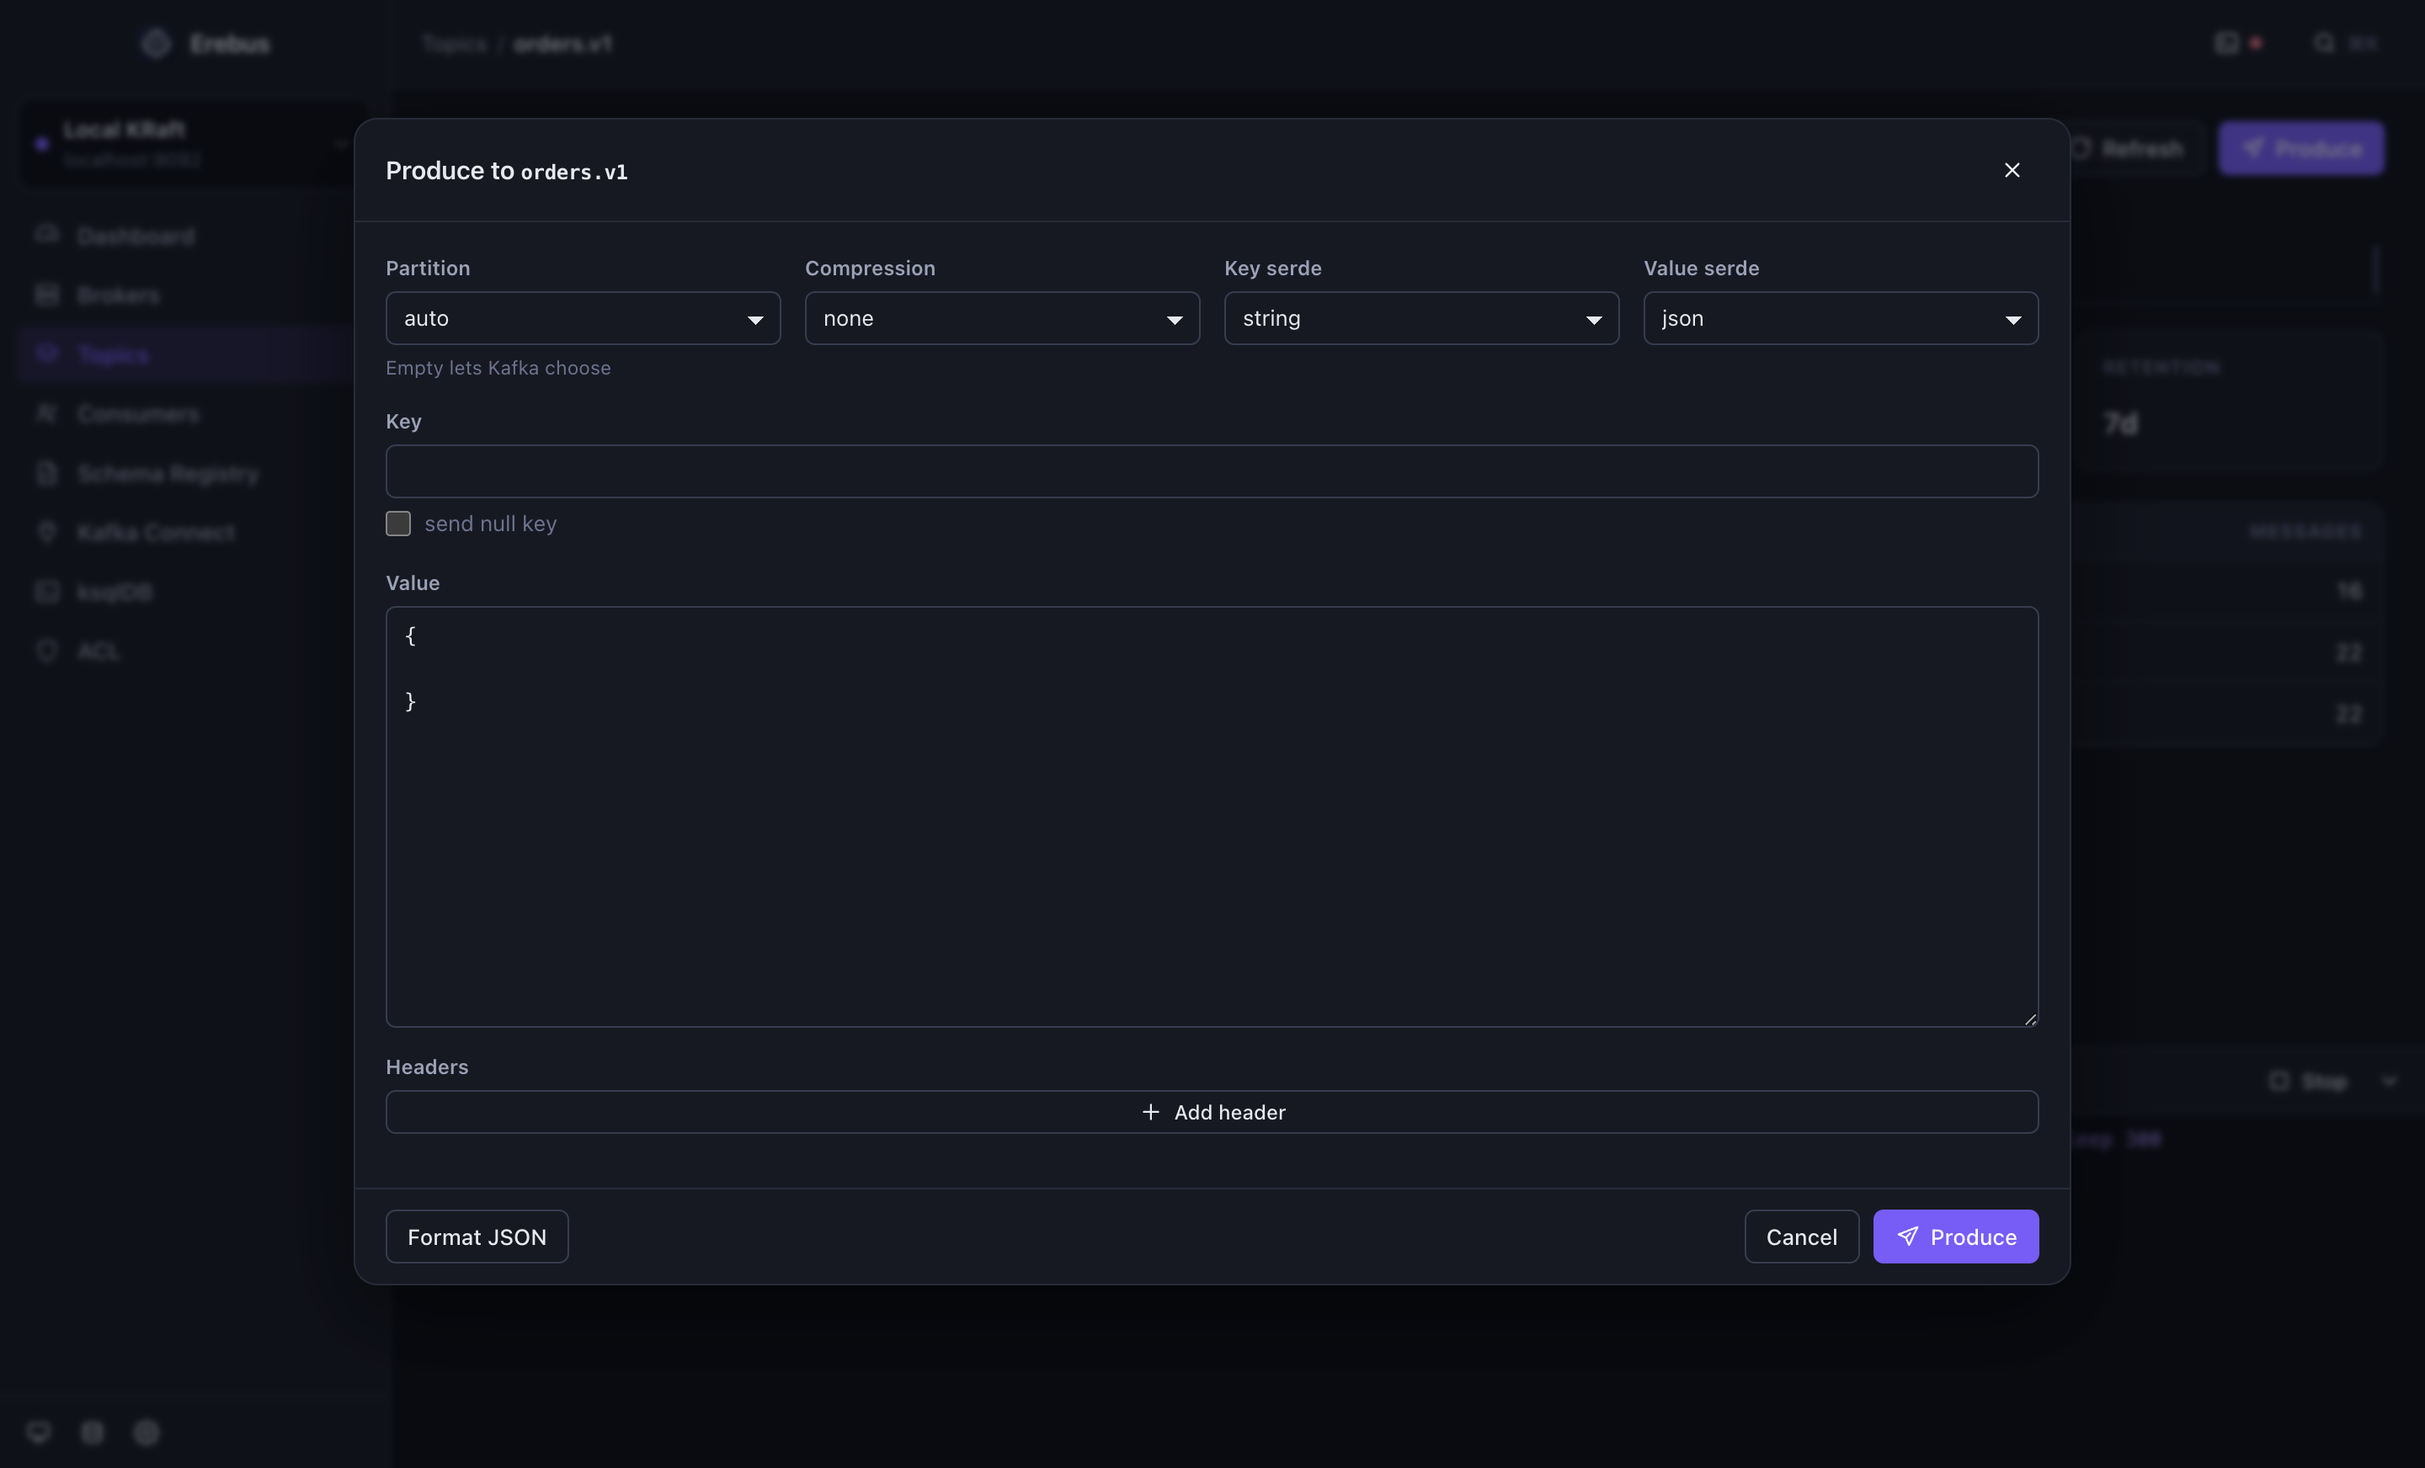
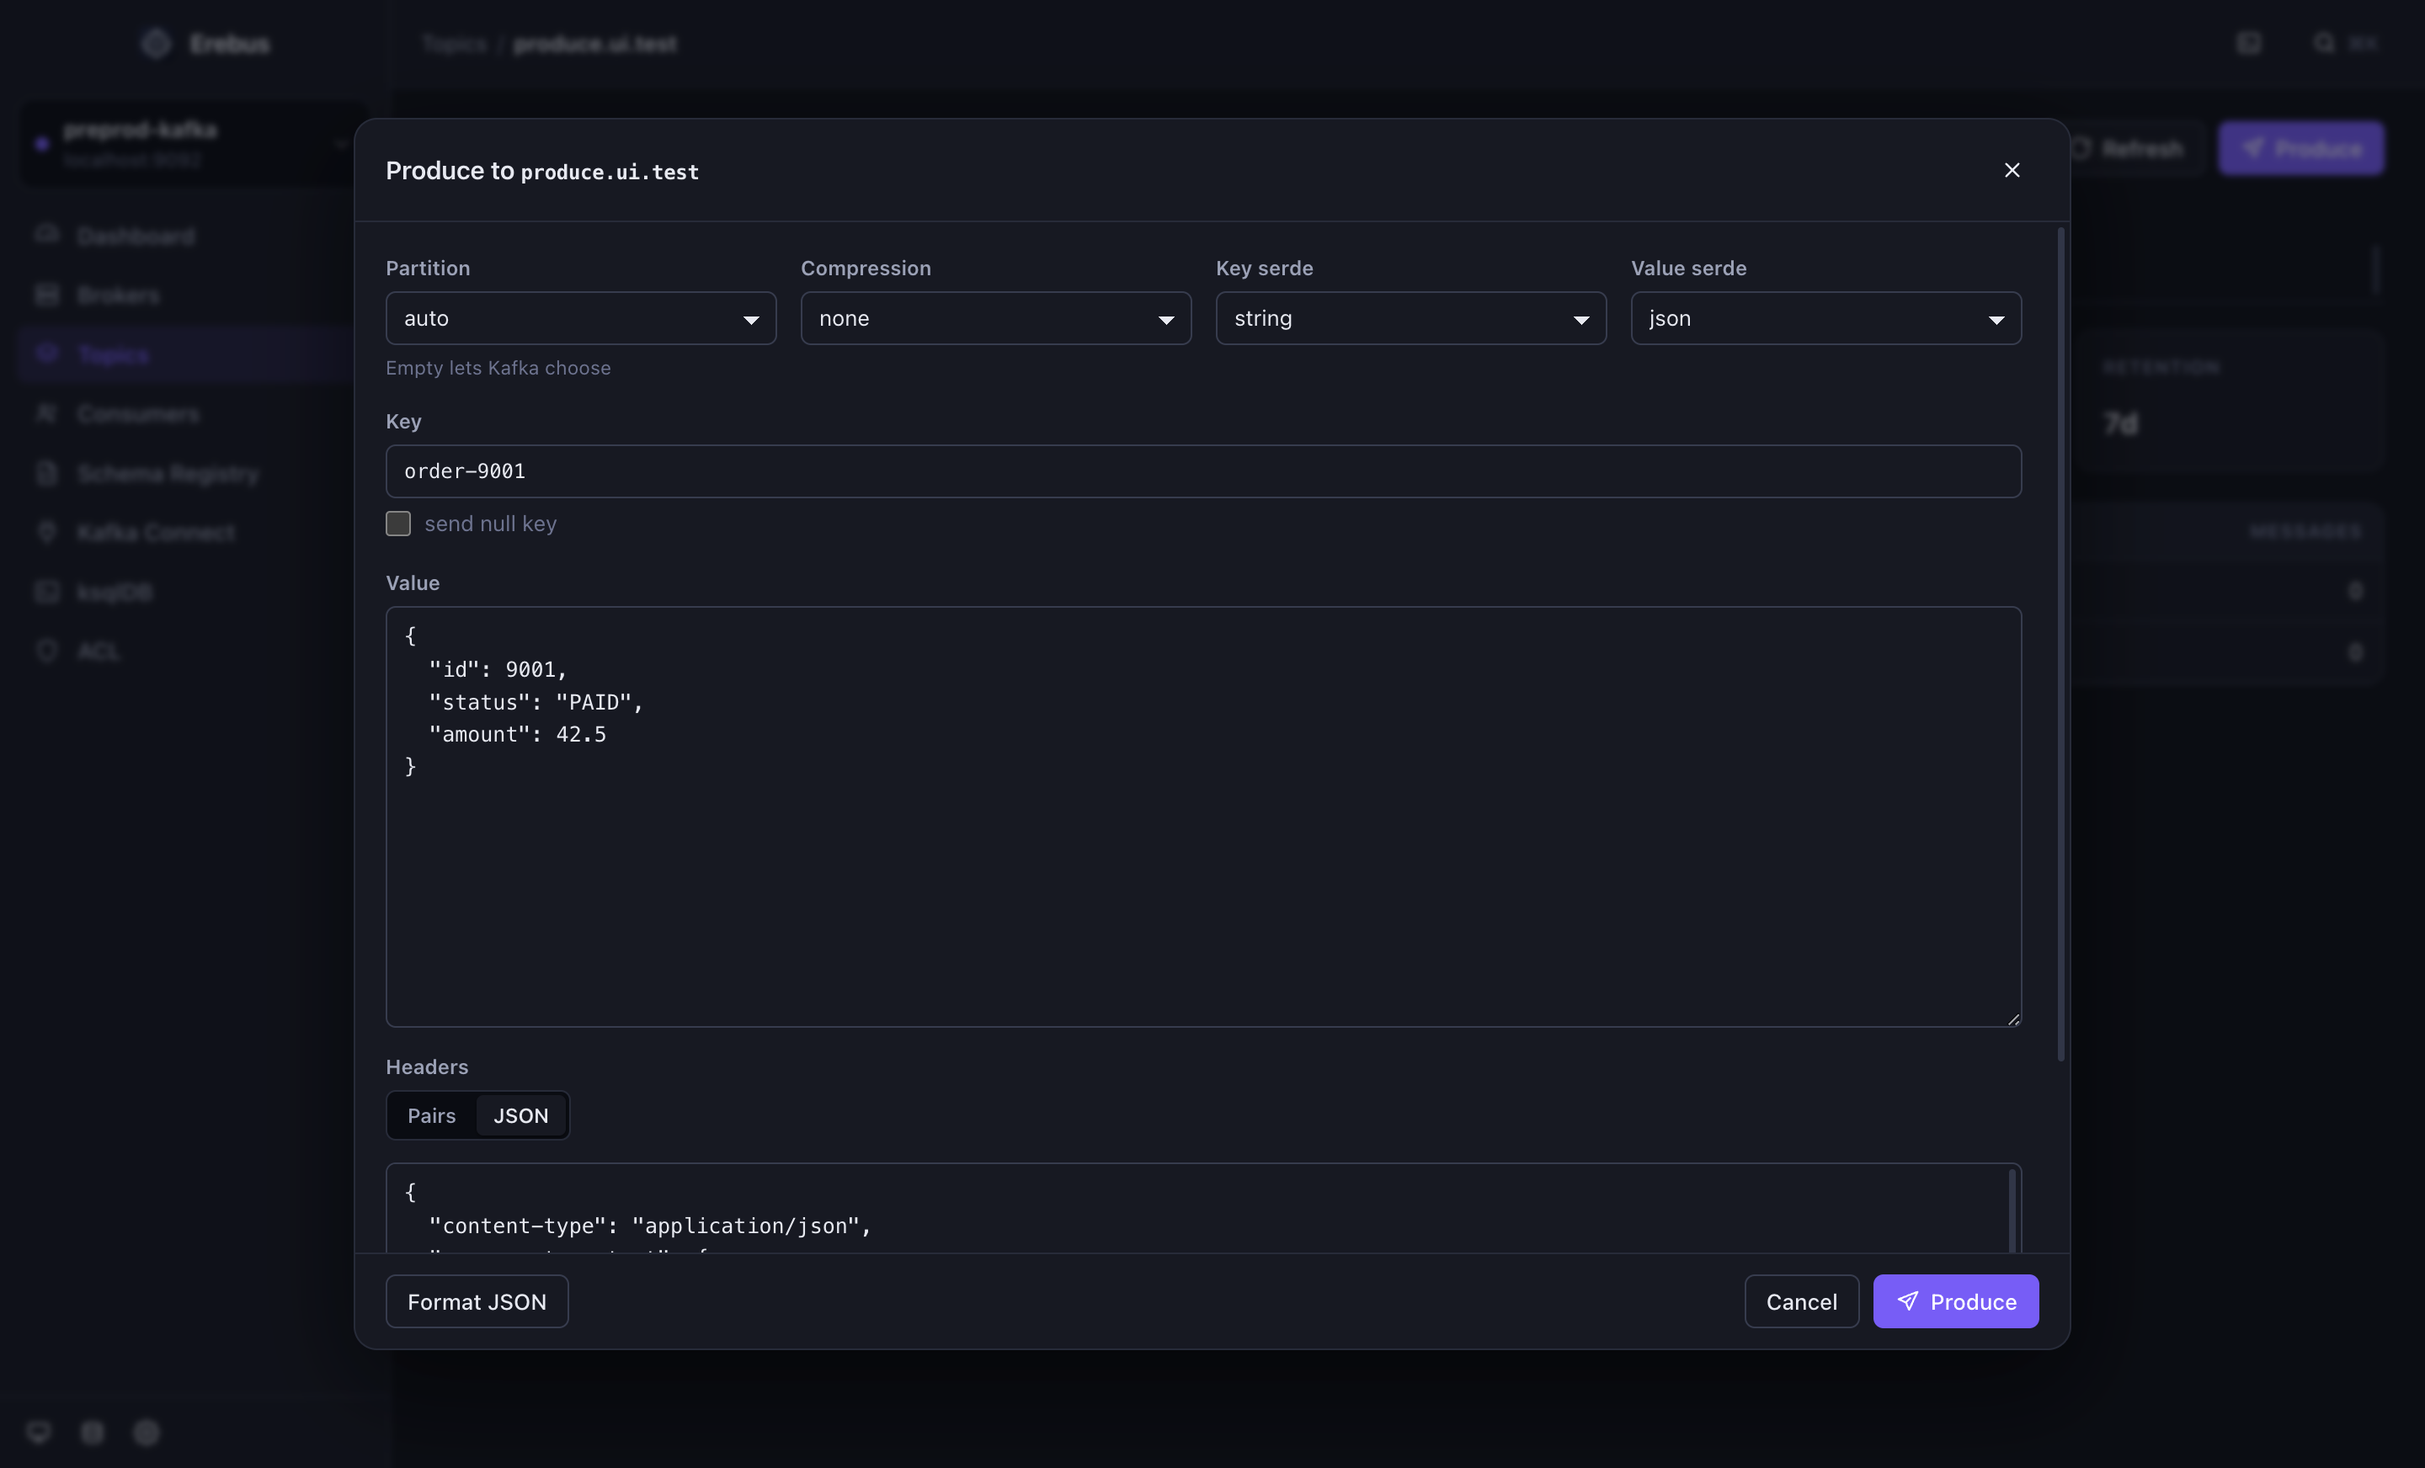
Produce: key, body and headers, with headers as JSON
The dialog already carried all three, but headers had to be entered one
string pair at a time — awkward for the ones people actually send, which
are JSON documents. Headers can now be pasted as a JSON object, nested
values and all, and the two editors convert into each other so switching
never loses what you typed.

Any message in the browser can also be resent: "Produce a copy" opens the
dialog prefilled with its key, body and headers.

Verified by driving the real dialog and reading the result back off the
broker: key, body, a plain header, a tracing header and a JSON header all
land intact.

diff --git a/src/pages/ProduceModal.tsx b/src/pages/ProduceModal.tsx
@@ -1,7 +1,7 @@
 import { useState } from 'react';
 import type { ClusterConfig, ProduceInput } from '@shared/types';
 import { Icon } from '@/components/Icons';
-import { Button, Field, Input, Modal, Select, Textarea } from '@/components/ui';
+import { Button, Field, Input, Modal, Segmented, Select, Textarea } from '@/components/ui';
 import { api } from '@/lib/api';
 import { useAsync } from '@/lib/hooks';
 import { useToast } from '@/lib/toast';
@@ -10,16 +10,43 @@ import { useAppState } from '@/app/AppState';
 type Serde = ProduceInput['valueSerde'];
 const SERDES: Serde[] = ['string', 'json', 'base64', 'avro'];
 
+function headersToJson(headers: { key: string; value: string }[]): string {
+  const shaped: Record<string, unknown> = {};
+  for (const header of headers) {
+    if (!header.key.trim()) continue;
+    const trimmed = header.value.trim();
+    let parsed: unknown = header.value;
+    if (/^[[{]/.test(trimmed)) {
+      try {
+        parsed = JSON.parse(trimmed);
+      } catch {
+        parsed = header.value;
+      }
+    }
+    shaped[header.key] = parsed;
+  }
+  return JSON.stringify(shaped, null, 2);
+}
+
+export interface ProducePrefill {
+  key?: string | null;
+  value?: string | null;
+  headers?: { key: string; value: string }[];
+}
+
 export function ProduceModal({
   cluster,
   topic,
   partitionCount,
+  prefill,
   onClose,
   onProduced,
 }: {
   cluster: ClusterConfig;
   topic: string;
   partitionCount: number;
+  /** Seeds the dialog, e.g. when resending an existing message. */
+  prefill?: ProducePrefill;
   onClose: () => void;
   onProduced?: () => void;
 }) {
@@ -29,12 +56,14 @@ export function ProduceModal({
   const [busy, setBusy] = useState(false);
   const [keySerde, setKeySerde] = useState<Serde>('string');
   const [valueSerde, setValueSerde] = useState<Serde>('json');
-  const [key, setKey] = useState('');
-  const [value, setValue] = useState('{\n  \n}');
-  const [nullKey, setNullKey] = useState(false);
+  const [key, setKey] = useState(prefill?.key ?? '');
+  const [value, setValue] = useState(prefill?.value ?? '{\n  \n}');
+  const [nullKey, setNullKey] = useState(prefill?.key === null);
   const [partition, setPartition] = useState<string>('');
   const [compression, setCompression] = useState<NonNullable<ProduceInput['compression']>>('none');
-  const [headers, setHeaders] = useState<{ key: string; value: string }[]>([]);
+  const [headers, setHeaders] = useState<{ key: string; value: string }[]>(prefill?.headers ?? []);
+  const [headerMode, setHeaderMode] = useState<'pairs' | 'json'>('pairs');
+  const [headerJson, setHeaderJson] = useState(() => headersToJson(prefill?.headers ?? []));
   const [keySubject, setKeySubject] = useState(`${topic}-key`);
   const [valueSubject, setValueSubject] = useState(`${topic}-value`);
 
@@ -42,7 +71,26 @@ export function ProduceModal({
     enabled: Boolean(cluster.schemaRegistry?.url),
   });
 
+  /** In JSON mode the textarea is the source of truth. */
+  const resolveHeaders = (): { key: string; value: string }[] => {
+    if (headerMode === 'pairs') return headers.filter((h) => h.key.trim());
+    const parsed = JSON.parse(headerJson || '{}');
+    if (typeof parsed !== 'object' || parsed === null || Array.isArray(parsed)) {
+      throw new Error('Headers must be a JSON object of header names to values');
+    }
+    return Object.entries(parsed).map(([k, v]) => ({
+      key: k,
+      value: typeof v === 'string' ? v : JSON.stringify(v),
+    }));
+  };
+
   const send = async () => {
+    let resolvedHeaders: { key: string; value: string }[];
+    try {
+      resolvedHeaders = resolveHeaders();
+    } catch (err) {
+      return toast.error(err);
+    }
     setBusy(true);
     try {
       const result = await api.produce({
@@ -51,7 +99,7 @@ export function ProduceModal({
         partition: partition === '' ? null : Number(partition),
         key: nullKey ? null : key,
         value,
-        headers: headers.filter((h) => h.key.trim()),
+        headers: resolvedHeaders,
         keySerde,
         valueSerde,
         keySubject: keySerde === 'avro' ? keySubject : null,
@@ -194,7 +242,43 @@ export function ProduceModal({
         <Textarea rows={12} value={value} onChange={(e) => setValue(e.target.value)} />
       </Field>
 
-      <Field label="Headers">
+      <Field
+        label="Headers"
+        hint={
+          headerMode === 'json'
+            ? 'A JSON object: values that are objects or arrays are serialised as JSON, strings are sent as-is.'
+            : undefined
+        }
+      >
+        <div style={{ marginBottom: 8 }}>
+          <Segmented<'pairs' | 'json'>
+            value={headerMode}
+            onChange={(mode) => {
+              // Carry the current content across so switching never loses work.
+              if (mode === 'json') setHeaderJson(headersToJson(headers.filter((h) => h.key.trim())));
+              else {
+                try {
+                  const parsed = JSON.parse(headerJson || '{}') as Record<string, unknown>;
+                  setHeaders(
+                    Object.entries(parsed).map(([k, v]) => ({ key: k, value: typeof v === 'string' ? v : JSON.stringify(v) })),
+                  );
+                } catch {
+                  /* keep whatever pairs we had */
+                }
+              }
+              setHeaderMode(mode);
+            }}
+            options={[
+              { value: 'pairs', label: 'Pairs' },
+              { value: 'json', label: 'JSON' },
+            ]}
+          />
+        </div>
+
+        {headerMode === 'json' ? (
+          <Textarea rows={6} value={headerJson} onChange={(e) => setHeaderJson(e.target.value)} />
+        ) : (
+          <>
         {headers.map((header, index) => (
           <div key={index} style={{ display: 'flex', gap: 6, marginBottom: 6 }}>
             <Input
@@ -217,6 +301,8 @@ export function ProduceModal({
         <Button size="sm" onClick={() => setHeaders([...headers, { key: '', value: '' }])}>
           <Icon.Plus width={13} /> Add header
         </Button>
+          </>
+        )}
       </Field>
     </Modal>
   );

diff --git a/src/pages/MessagesView.tsx b/src/pages/MessagesView.tsx
@@ -17,7 +17,7 @@ import { api, bridge } from '@/lib/api';
 import { cx, formatBytes, formatNumber, formatTimestamp, headersPreview, parseMaybeJson, truncate } from '@/lib/format';
 import { useAppState } from '@/app/AppState';
 import { useToast } from '@/lib/toast';
-import { ProduceModal } from './ProduceModal';
+import { ProduceModal, type ProducePrefill } from './ProduceModal';
 
 const SERDES: SerdeKind[] = ['auto', 'string', 'json', 'avro', 'protobuf', 'base64', 'hex', 'int32', 'int64'];
 
@@ -43,7 +43,15 @@ function SerdeOptions({ schemas }: { schemas: { id: string; name: string }[] }) 
   );
 }
 
-function MessageDetail({ message, onClose }: { message: KafkaMessage; onClose: () => void }) {
+function MessageDetail({
+  message,
+  onClose,
+  onResend,
+}: {
+  message: KafkaMessage;
+  onClose: () => void;
+  onResend?: (message: KafkaMessage) => void;
+}) {
   const render = (payload: KafkaMessage['key']) => {
     if (payload.text === null) return <span className="subtle">null</span>;
     return (
@@ -64,6 +72,11 @@ function MessageDetail({ message, onClose }: { message: KafkaMessage; onClose: (
       onClose={onClose}
       footer={
         <>
+          {onResend && (
+            <Button className="left" onClick={() => onResend(message)}>
+              <Icon.Send width={14} /> Produce a copy
+            </Button>
+          )}
           <CopyButton label="Copy value" text={message.value.text ?? ''} />
           <CopyButton label="Copy as JSON" text={JSON.stringify(message, null, 2)} />
           <Button onClick={onClose}>Close</Button>
@@ -161,7 +174,7 @@ export function MessagesView({ cluster, topic, partitionCount }: { cluster: Clus
   const [progress, setProgress] = useState<ConsumeProgress | null>(null);
   const [running, setRunning] = useState(false);
   const [selected, setSelected] = useState<KafkaMessage | null>(null);
-  const [producing, setProducing] = useState(false);
+  const [producing, setProducing] = useState<{ prefill?: ProducePrefill } | null>(null);
 
   const sessionRef = useRef<string | null>(null);
   const pendingRef = useRef<KafkaMessage[]>([]);
@@ -389,7 +402,7 @@ export function MessagesView({ cluster, topic, partitionCount }: { cluster: Clus
           >
             <Icon.Filter width={15} />
           </Button>
-          <Button variant="ghost" iconOnly title="Produce message" disabled={cluster.readonly} onClick={() => setProducing(true)}>
+          <Button variant="ghost" iconOnly title="Produce message" disabled={cluster.readonly} onClick={() => setProducing({})}>
             <Icon.Send width={15} />
           </Button>
         </div>
@@ -515,13 +528,33 @@ export function MessagesView({ cluster, topic, partitionCount }: { cluster: Clus
         )}
       </div>
 
-      {selected && <MessageDetail message={selected} onClose={() => setSelected(null)} />}
+      {selected && (
+        <MessageDetail
+          message={selected}
+          onClose={() => setSelected(null)}
+          onResend={
+            cluster.readonly
+              ? undefined
+              : (message) => {
+                  setSelected(null);
+                  setProducing({
+                    prefill: {
+                      key: message.key.text,
+                      value: message.value.text ?? '',
+                      headers: message.headers,
+                    },
+                  });
+                }
+          }
+        />
+      )}
       {producing && (
         <ProduceModal
           cluster={cluster}
           topic={topic}
           partitionCount={partitionCount}
-          onClose={() => setProducing(false)}
+          prefill={producing.prefill}
+          onClose={() => setProducing(null)}
           onProduced={() => void start({ live })}
         />
       )}

diff --git a/README.md b/README.md
@@ -161,7 +161,7 @@ cannot reach from your laptop.
 | **Topics** | Sortable list with partitions, replication factor, out-of-sync replicas, message count, cleanup policy and retention. Create with arbitrary config, edit config inline, add partitions, purge records, delete (typed confirmation). Partition table with leader, replicas, ISR and offsets. |
 | **Messages** | Seek by **newest / oldest / offset / timestamp**, all partitions or a subset. Deserializers: auto, `string`, `json`, **Avro through the Schema Registry**, JSON Schema, `base64`, `hex`, `int32`, `int64`. Substring search **plus a sandboxed JavaScript filter**. **Live tail.** Export the result set as JSON. |
 | **Headers** | A column of their own in the list, and a panel in the message view. Values that are JSON — `x-request-context`, `x-schema`, whatever your producers attach — are pretty-printed and highlighted; binary ones fall back to base64, repeated keys are kept. The JavaScript filter receives them parsed, so `headers['x-request-context'].tenant === 'acme'` works. |
-| **Produce** | Key and value serializers (including Avro against a registered subject), headers, target partition, compression, null keys. |
+| **Produce** | Key, body and headers in one dialog. Headers can be typed as pairs or pasted as a **JSON object** — nested values are serialised for you. Key and value serializers (including Avro, registry or local schema), target partition, compression, explicit null keys. Any message can be **resent as a copy**, prefilled with its key, body and headers. |
 | **Consumer groups** | State, members, assignments, per-partition committed offset, end offset and lag. Reset to earliest, latest, an offset or a timestamp. Delete a group. |
 | **Schema Registry** | Subjects, versions, highlighted schema. Register AVRO / JSON / PROTOBUF, check compatibility first, change the compatibility level, delete a version or a subject. |
 | **Avro plugin** | Local `.avsc` schemas, validated on save, offered as `avro · <name>` in every serde picker — reading *and* writing. Confluent-framed payloads are handled too: the five header bytes are skipped. No registry required. |
@@ -386,7 +386,7 @@ Reproduce it yourself: `scripts/` has nothing magic — a paced `kafkajs` produc
 </td>
 <td width="50%" valign="top" align="center">
 <img src="docs/kafka-produce-dark.png" alt="Produce dialog"><br>
-<b>Produce</b> — serializers, headers, partition, compression
+<b>Produce</b> — key, body and JSON headers in one dialog
 </td>
 </tr>
 <tr>
